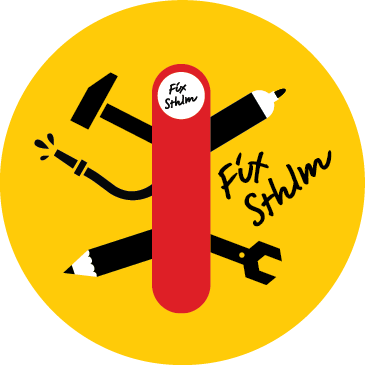
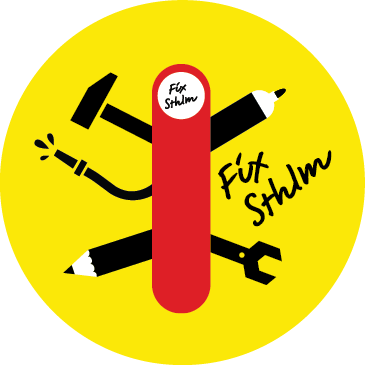
colors, text looks

diff --git a/index.html b/index.html
@@ -28,10 +28,11 @@
   
  <!-- <img id="screwdriver" src="css/screwdriver.png"> -->
 
-   <!-- <img id="pencil" src="css/pencil.png">-->
+<img id="pencil" src="css/pencil.png"
 
   <center><img  id="logo_FS" class="responsive" src="img/logo_FixSthlm.png"></center>
-
+  
+  
 
    </div>
       
@@ -57,9 +58,9 @@
   <br>
 
     <div class="pagragraphtxt">
-    Fix Sthlm is a place where citizens can share and report ideas to improve and develop their local neighborhoods. It's a digital forum to inspire action. It collects real-time, qualified data to portray the condition of Stockholm as seen through the eyes of its citizens. <br>
-
-      We see this tool as a step toward more engaging dialogue and direct contact between the citizens and municipality. We see a need for a transition from an out-dated approach of community engagement such as questionnaires and City hall meetings to an active use of modern communication methods. We consider FixStockholm as a one small step on this long road. Modern cities should be accessible to all and its evolvement should be portayred as a real-time image, both for the benefit of its decision-makers and citizens. <br>
+    <strong>FixSthlm</strong> is a place where citizens can share and report ideas to improve and develop their local neighborhoods. It's a digital forum to inspire action. It collects real-time, qualified data to portray the condition of Stockholm as seen through the eyes of its citizens. 
+    We see this tool as a step toward more engaging dialogue and direct contact between the citizens and municipality. We see a need for a transition from an out-dated approach of community engagement such as questionnaires and City Hall meetings to an active use of modern communication methods. 
+    We consider <strong>FixSthlm</strong> as a one small step on this long road. Modern cities should be accessible to all and its evolvement should be portayred as a real-time image, both for the benefit of its decision-makers and citizens. <br>
 
   
     

diff --git a/css/style.css b/css/style.css
@@ -45,14 +45,14 @@ letter-spacing: 0.2em;
 #header{
 	width: 100%; 
 	height: 300px; 
-	background-color: #FFCC00;
+	background-color:#FFE500;
 } 
 
 #tbox {
 	color: #282828;
     width: 200px;
     height: 50px;
-    background: #FFCC00;
+    background: #FFE500;
     pointer-events: none;
     position: relative;
     top: 38px;
@@ -77,7 +77,8 @@ letter-spacing: 0.2em;
 	right:0px; 
 	top: 0px;
 	z-index: 2;
-    background-color: #FFCC00;
+    background-color: #FFE500;
+    
     
 } 
 
@@ -86,16 +87,17 @@ letter-spacing: 0.2em;
 	right:0px; 
 	top: 0px;
 	z-index: 1;
-    background-color: #FFCC00;
+    background-color:#FFE500;
     width: 100%;
 	pointer-events: none;
     height: 30px;
+
 }
 .menu a{
 
 		color:black;
 		font-family:'Oxygen';
-		font-size: 20px; 	
+		font-size: 11pt; 	
 		padding: 20px; 
 		text-align: right
 }
@@ -103,6 +105,8 @@ letter-spacing: 0.2em;
 .menu a:hover{
 		text-decoration: none;
 		color:red;
+		font-family:'Oxygen';
+		font-size: 11pt; 
 
 }
 
@@ -126,7 +130,6 @@ max-width:497px;
 width:100%
 
 
-
 }
 
 #FixStockholm_image
@@ -147,9 +150,9 @@ width:100%
 #pencil {
 	position: absolute;
 	right: 0%;
-	bottom: 45%;
-	z-index: 2;
-	height: 40%;
+	bottom: 60%;
+	z-index: 3;
+	height: 30%;
 }
 
 #screwdriver {
